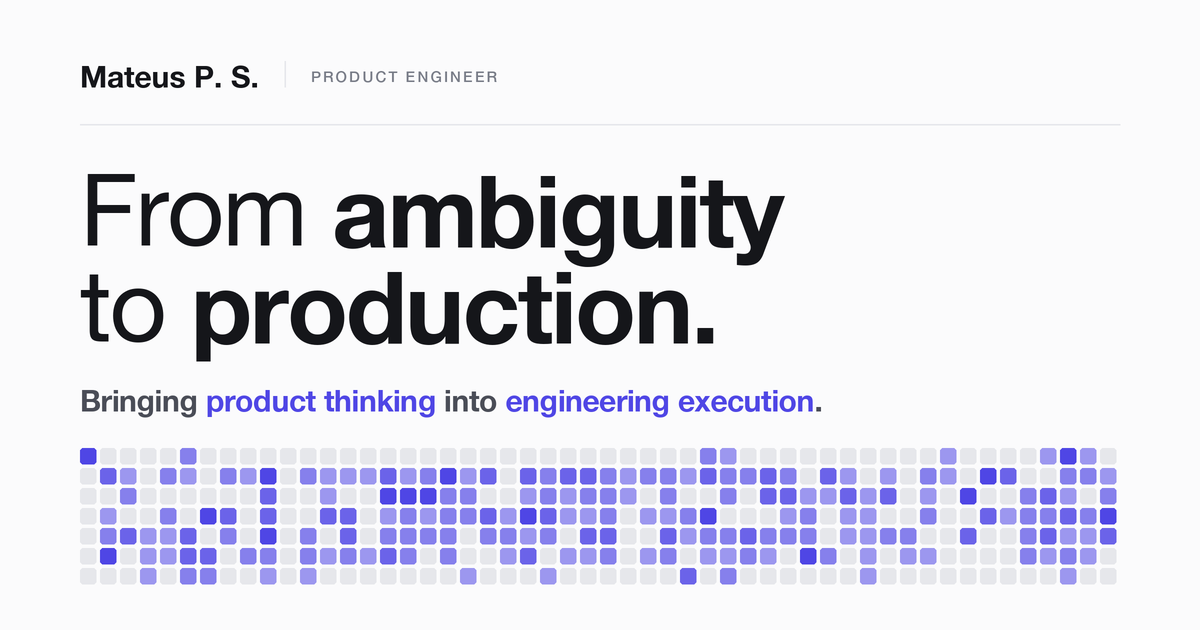
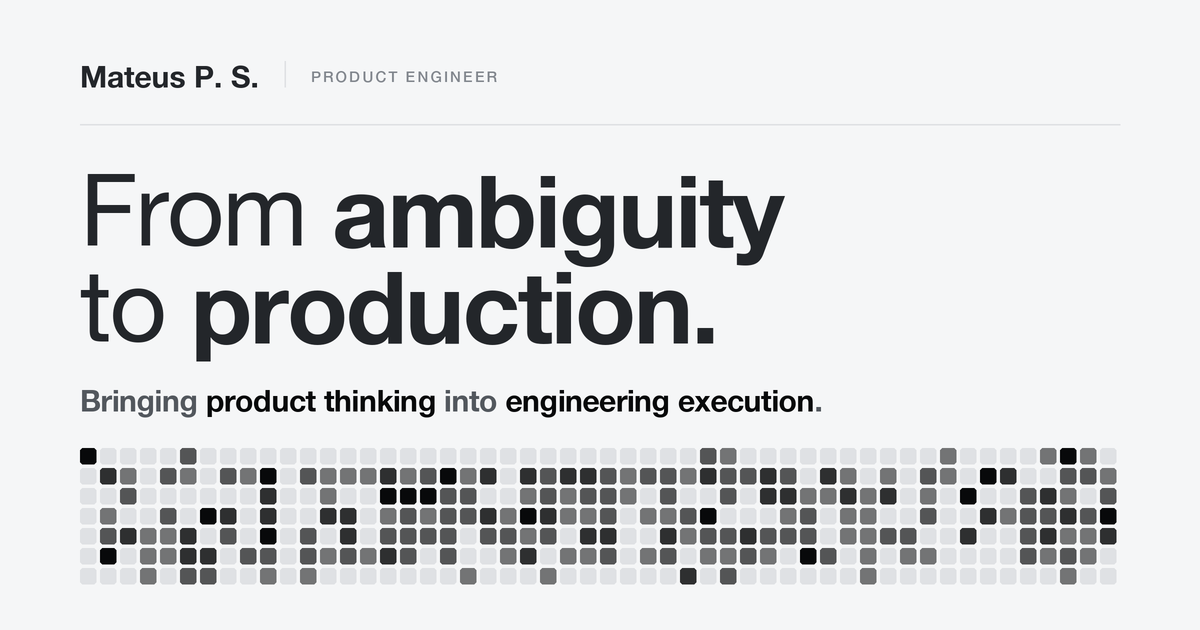
feat(theme): monochrome metal — platinum, graphite, chrome, zero hue
Kills the indigo everywhere: tokens, the AI-leverage ray fan, the OG card,
the icon set, and the browser theme-color. Nothing in the source matches a
purple hex any more.

The hard part is that a hueless accent has no way to step forward, and a
flat gray <em> is exactly what the colored one replaced. So emphasis is
carried by two things instead of a hue:

  value  — light: body graphite #23262a, accent obsidian #08090a (14:1 vs
           18.4:1 on the paper). Dark inverts it: body #e8eaed, accent
           specular #f7f9fa. Emphasis is always the extreme value, never a
           lighter gray.
  material — a new --metal gradient fills the four display emphases via
           background-clip: text. Angled, not vertical: background-clip
           paints the whole line box, so a vertical ramp hides its light
           stops in the ascender space and the x-height reads flat black.

The ray fan carried a full rainbow of literal hexes. Each ray now sits at
its own point on a color-mix ramp between --ink-4 and --accent, so the
scatter still reads as many unequal inputs and both themes stay legible —
a fixed gray would have vanished on one of them.

--glow replaces the accent-tinted drop-shadows: on paper a near-black halo
is a smudge, so light casts a shadow and dark glints.

Icons are recolored, not redrawn: scripts/recolor-icons.py projects every
pixel onto the background→mark axis and re-plots it on the new one, so the
letterform and its antialiasing survive exactly.

Changed region(s): [[0.0617, 0.6937, 0.9558, 0.9349], [0.4008, 0.6032, 0.6783, 0.6635], [0.1542, 0.6032, 0.37, 0.6635]]

diff --git a/styles/base/globals.scss b/styles/base/globals.scss
@@ -1,54 +1,72 @@
 /* ============================================================
    Mateus P. S. — Full-Stack / Product Software Engineer
    System: Helvetica only, everywhere (no display/mono web fonts)
-   Aesthetic: editorial tech · neutral paper · indigo accent · generative graphics
+   Aesthetic: editorial tech · monochrome metal · titanium / platinum / chrome
+   No hue anywhere: emphasis is carried by value and material, not color.
    ============================================================ */
 
 /* ---------------- THEME TOKENS ---------------- */
 :root,
 [data-theme="light"] {
-  --bg:        #fbfbfc;
+  /* PLATINUM — brushed paper, graphite type, obsidian emphasis */
+  --bg:        #f5f6f7;
   --panel-1:   #ffffff;
-  --panel-2:   #f4f5f7;
-  --ink:       #15161a;
-  --ink-2:     #4a4d57;
-  --ink-3:     #797d88;
-  --ink-4:     #aeb1ba;
-  --rule:      #e6e7eb;
-  --rule-soft: #eff0f3;
-  --accent:    #4f46e5;
-  --accent-2:  #4338ca;
+  --panel-2:   #eaebed;
+  --ink:       #23262a;
+  --ink-2:     #52575d;
+  --ink-3:     #82878e;
+  --ink-4:     #b0b5bb;
+  --rule:      #dfe1e4;
+  --rule-soft: #ebedee;
+  /* the accent is a VALUE, not a hue: darker than the body text, so emphasis
+     still steps forward instead of falling back into gray */
+  --accent:    #08090a;
+  --accent-2:  #2c3035;
   --accent-ink:#ffffff;
-  --accent-dim:#ecebfb;
-  --ascii:     #15161a;
+  --accent-dim:#e4e6e9;
+  --ascii:     #23262a;
+  /* brushed metal for display emphasis. Diagonal, not vertical: background-clip
+     paints across the whole line box, so a vertical ramp puts its light stops
+     in the ascender and descender space and the x-height reads as flat black.
+     Angled, the sheen crosses the word and every letter catches a different
+     part of it. The lit stops stay dark enough to hold contrast on paper. */
+  --metal: linear-gradient(160deg, #0b0d0f 0%, #4f555d 36%, #0b0d0f 58%, #3a3f45 100%);
+  /* light paper: metal casts a shadow rather than glowing */
+  --glow: rgba(10,12,14,0.2);
   --grain-blend: multiply;
   --grain-opacity: 0.035;
   --panel-sheen: linear-gradient(180deg, rgba(255,255,255,0.6), rgba(255,255,255,0) 42%);
-  --shadow: 0 1px 2px rgba(20,20,30,0.04), 0 30px 64px -38px rgba(20,20,30,0.2);
-  --selection: rgba(79,70,229,0.16);
+  --shadow: 0 1px 2px rgba(10,12,14,0.05), 0 30px 64px -38px rgba(10,12,14,0.22);
+  --selection: rgba(35,38,42,0.15);
   color-scheme: light;
 }
 
 [data-theme="dark"] {
-  --bg:        #0a0a0f;
-  --panel-1:   #121319;
-  --panel-2:   #181a22;
-  --ink:       #ecedf2;
-  --ink-2:     #aeb0bc;
-  --ink-3:     #797c89;
-  --ink-4:     #4f5260;
-  --rule:      #24262f;
-  --rule-soft: #181a21;
-  --accent:    #8b82f7;
-  --accent-2:  #a39cf9;
-  --accent-ink:#0a0a0f;
-  --accent-dim:#1c1b33;
-  --ascii:     #ecedf2;
+  /* MACHINED GRAPHITE — cold body, specular emphasis */
+  --bg:        #0b0c0e;
+  --panel-1:   #141619;
+  --panel-2:   #1c1f23;
+  --ink:       #e8eaed;
+  --ink-2:     #a6abb2;
+  --ink-3:     #737a82;
+  --ink-4:     #474d55;
+  --rule:      #23262b;
+  --rule-soft: #16181b;
+  /* inverted, same logic: emphasis is the brightest value on the page */
+  --accent:    #f7f9fa;
+  --accent-2:  #cfd5db;
+  --accent-ink:#0b0c0e;
+  --accent-dim:#21252a;
+  --ascii:     #e8eaed;
+  /* chrome: specular top, shadowed band, lit again at the base */
+  --metal: linear-gradient(180deg, #ffffff 0%, #dfe4e9 40%, #9aa1a9 56%, #eceff2 100%);
+  /* dark: metal glints */
+  --glow: rgba(247,249,250,0.4);
   --grain-blend: overlay;
   --grain-opacity: 0.05;
-  --panel-sheen: linear-gradient(180deg, rgba(255,255,255,0.03), rgba(255,255,255,0) 42%);
-  --shadow: 0 1px 2px rgba(0,0,0,0.4), 0 30px 64px -34px rgba(0,0,0,0.7);
-  --selection: rgba(139,130,247,0.3);
+  --panel-sheen: linear-gradient(180deg, rgba(255,255,255,0.05), rgba(255,255,255,0) 42%);
+  --shadow: 0 1px 2px rgba(0,0,0,0.45), 0 30px 64px -34px rgba(0,0,0,0.72);
+  --selection: rgba(232,234,237,0.22);
   color-scheme: dark;
 }
 
@@ -71,6 +89,30 @@
 [data-theme="dark"] {
   --shadow-card: 0 1px 2px rgba(0,0,0,0.5), 0 18px 40px -22px rgba(0,0,0,0.7);
   --shadow-lift: 0 1px 2px rgba(0,0,0,0.55), 0 30px 60px -26px rgba(0,0,0,0.8);
+}
+
+/* ---------------- METAL TYPE ----------------
+   The one place the palette behaves like a material instead of a color: the
+   display emphases get the brushed gradient, so emphasis reads as sharper
+   than the body text. Without this a hueless accent flattens into gray —
+   exactly the problem the colored <em> was introduced to solve. Solid
+   --accent is the fallback where background-clip: text is unsupported. */
+.sec-head h2 em,
+.contact-statement em,
+.hero-copy .hl-w,
+.po-foot em {
+  color: var(--accent);
+}
+@supports ((-webkit-background-clip: text) or (background-clip: text)) {
+  .sec-head h2 em,
+  .contact-statement em,
+  .hero-copy .hl-w,
+  .po-foot em {
+    background-image: var(--metal);
+    -webkit-background-clip: text;
+    background-clip: text;
+    color: transparent;
+  }
 }
 
 /* ---------------- BASE RESET ---------------- */
@@ -312,7 +354,7 @@ section {
   color: var(--ink);
   text-wrap: balance;
 }
-.sec-head h2 em { color: var(--accent); font-style: normal; }
+.sec-head h2 em { font-style: normal; }
 .sec-head .sub {
   font-size: clamp(18px, 1.5vw, 21px);
   color: var(--ink-2);
@@ -644,10 +686,9 @@ html .topbar-inner { transition: height 0.42s var(--ease), opacity 0.3s var(--ea
   color: var(--ink-2);
   margin: 0 0 36px;
 }
-.hero-copy .hl-w { 
-  font-weight: 700; 
-  white-space: nowrap; 
-  color: var(--accent); 
+.hero-copy .hl-w {
+  font-weight: 700;
+  white-space: nowrap;
 }
 
 .br-mobile { display: none; }
@@ -896,7 +937,7 @@ html .topbar-inner { transition: height 0.42s var(--ease), opacity 0.3s var(--ea
   stroke: var(--accent);
   stroke-width: 1.5;
   stroke-opacity: 0.9;
-  filter: drop-shadow(0 0 9px color-mix(in srgb, var(--accent) 45%, transparent));
+  filter: drop-shadow(0 0 9px var(--glow));
 }
 
 /* labels — font-size is set per-ring inline so it grows toward the outcome */
@@ -913,7 +954,7 @@ html .topbar-inner { transition: height 0.42s var(--ease), opacity 0.3s var(--ea
 }
 .po-lbl.acc .po-nm {
   fill: var(--accent);
-  filter: drop-shadow(0 0 12px color-mix(in srgb, var(--accent) 45%, transparent));
+  filter: drop-shadow(0 0 12px var(--glow));
 }
 
 .po-foot {
@@ -923,7 +964,7 @@ html .topbar-inner { transition: height 0.42s var(--ease), opacity 0.3s var(--ea
   font-size: clamp(14px, 1.4vw, 15.5px);
   color: var(--ink-2);
 }
-.po-foot em { font-style: normal; color: var(--accent); }
+.po-foot em { font-style: normal; }
 
 /* ── reveal: rings trace in from the core, labels rise ── */
 .po-ring { stroke-dashoffset: 1; stroke-dasharray: 1; }
@@ -1391,7 +1432,7 @@ a.ac-read:hover svg { transform: translate(2px, -2px); }
   margin: 0 0 24px;
   text-wrap: balance;
 }
-.contact-statement em { color: var(--accent); font-style: normal; }
+.contact-statement em { font-style: normal; }
 .contact-lead {
   font-size: clamp(15px, 2.2vw, 18px);
   line-height: 1.6;

diff --git a/components/sections/AILeverage/AILeverage.tsx b/components/sections/AILeverage/AILeverage.tsx
@@ -5,8 +5,11 @@ import type { CSSProperties } from 'react';
 import { FadeIn } from '@/components/ui/FadeIn';
 
 /* ── refraction motif geometry ──────────────────────────────────────────
-   scattered possibilities (multicolor rays) converge at the prism's left
-   vertex; judgment focuses them into one accent beam → directed impact. */
+   scattered possibilities converge at the prism's left vertex; judgment
+   focuses them into one accent beam → directed impact. The scatter is carried
+   by value, not hue: each ray sits at its own point on the metal ramp, from
+   dim titanium to full specular, so the palette stays monochrome and both
+   themes stay legible (a fixed hex would vanish on one of them). */
 const CX = 300;
 const CY = 250;
 const PRISM = {
@@ -18,25 +21,30 @@ const PRISM = {
 };
 const IMPACT_X = 720;
 
-const RAY_DEFS: { a: number; l: number; c: string }[] = [
-  { a: -38, l: 196, c: '#818cf8' },
-  { a: -31, l: 232, c: '#6366f1' },
-  { a: -24, l: 250, c: '#4338ca' },
-  { a: -17, l: 212, c: '#818cf8' },
-  { a: -9, l: 244, c: '#a855f7' },
-  { a: -2, l: 224, c: '#c084fc' },
-  { a: 6, l: 250, c: '#ec4899' },
-  { a: 13, l: 214, c: '#f472b6' },
-  { a: 20, l: 242, c: '#f59e0b' },
-  { a: 28, l: 206, c: '#fbbf24' },
-  { a: 35, l: 232, c: '#c7cad6' },
-  { a: 41, l: 190, c: '#818cf8' },
+/* t = position on the ramp between --ink-4 (dim) and --accent (specular) */
+const RAY_DEFS: { a: number; l: number; t: number }[] = [
+  { a: -38, l: 196, t: 0.55 },
+  { a: -31, l: 232, t: 0.8 },
+  { a: -24, l: 250, t: 1 },
+  { a: -17, l: 212, t: 0.5 },
+  { a: -9, l: 244, t: 0.72 },
+  { a: -2, l: 224, t: 0.34 },
+  { a: 6, l: 250, t: 0.92 },
+  { a: 13, l: 214, t: 0.45 },
+  { a: 20, l: 242, t: 0.66 },
+  { a: 28, l: 206, t: 0.28 },
+  { a: 35, l: 232, t: 0.6 },
+  { a: 41, l: 190, t: 0.86 },
 ];
 const RAY_SCALE = 1.28; // longer threads, reaching further left
-const RAYS = RAY_DEFS.map(({ a, l, c }) => {
+const RAYS = RAY_DEFS.map(({ a, l, t }) => {
   const r = (a * Math.PI) / 180;
   const L = l * RAY_SCALE;
-  return { x: +(CX - L * Math.cos(r)).toFixed(1), y: +(CY + L * Math.sin(r)).toFixed(1), c };
+  return {
+    x: +(CX - L * Math.cos(r)).toFixed(1),
+    y: +(CY + L * Math.sin(r)).toFixed(1),
+    c: `color-mix(in srgb, var(--accent) ${Math.round(t * 100)}%, var(--ink-4))`,
+  };
 });
 
 const STAGES: { x: number; k: string; s: [string, string] }[] = [

diff --git a/app/layout.tsx b/app/layout.tsx
@@ -6,8 +6,8 @@ export const viewport: Viewport = {
   initialScale: 1,
   viewportFit: 'cover',
   themeColor: [
-    { media: '(prefers-color-scheme: light)', color: '#fbfbfc' },
-    { media: '(prefers-color-scheme: dark)', color: '#0a0a0f' },
+    { media: '(prefers-color-scheme: light)', color: '#f5f6f7' },
+    { media: '(prefers-color-scheme: dark)', color: '#0b0c0e' },
   ],
 };
 
@@ -63,7 +63,7 @@ export default function RootLayout({ children }: { children: React.ReactNode }) 
       <head>
         <script
           dangerouslySetInnerHTML={{
-            __html: `(function(){try{var s=localStorage.getItem('theme');var t=s||(window.matchMedia('(prefers-color-scheme: dark)').matches?'dark':'light');document.documentElement.setAttribute('data-theme',t);var c=t==='dark'?'#0a0a0f':'#fbfbfc';var m=document.querySelectorAll('meta[name="theme-color"]');for(var i=0;i<m.length;i++){m[i].setAttribute('content',c);}}catch(e){}})();`,
+            __html: `(function(){try{var s=localStorage.getItem('theme');var t=s||(window.matchMedia('(prefers-color-scheme: dark)').matches?'dark':'light');document.documentElement.setAttribute('data-theme',t);var c=t==='dark'?'#0b0c0e':'#f5f6f7';var m=document.querySelectorAll('meta[name="theme-color"]');for(var i=0;i<m.length;i++){m[i].setAttribute('content',c);}}catch(e){}})();`,
           }}
         />
         <script

diff --git a/components/layout/Header/Header.tsx b/components/layout/Header/Header.tsx
@@ -7,7 +7,7 @@ import { motion, useScroll, useSpring } from 'framer-motion';
 // site's manual toggle — override the rendered meta tags so the iOS status
 // bar / Dynamic Island area matches whichever theme is actually active.
 function syncThemeColorMeta(theme: 'light' | 'dark') {
-  const color = theme === 'dark' ? '#0a0a0f' : '#fbfbfc';
+  const color = theme === 'dark' ? '#0b0c0e' : '#f5f6f7';
   document.querySelectorAll('meta[name="theme-color"]').forEach((m) => m.setAttribute('content', color));
 }
 

diff --git a/scripts/recolor-icons.py b/scripts/recolor-icons.py
@@ -1,0 +1,80 @@
+"""Recolor the "M" mark from indigo to the monochrome metal palette.
+
+    python3 scripts/recolor-icons.py
+
+The icons are a flat two-color artwork (mark on a solid square) plus
+antialiasing. Rather than redrawing the mark, every pixel is projected onto the
+background→mark axis and re-plotted on the new axis, so the letterform and its
+edge softness survive byte for byte — only the two endpoints move.
+
+Light-UI icons get an obsidian mark on white; the dark-UI variants get a
+platinum mark, and their near-black square loses its faint blue cast.
+"""
+from pathlib import Path
+
+from PIL import Image
+
+PUBLIC = Path(__file__).resolve().parent.parent / "public"
+
+LIGHT_BG, LIGHT_INK = (255, 255, 255), (13, 15, 17)   # paper / obsidian
+DARK_BG, DARK_INK = (11, 12, 14), (242, 244, 246)     # graphite / platinum
+
+LIGHT = ["icon-512.png", "icon-192.png", "apple-touch-icon.png",
+         "favicon-32x32.png", "favicon-16x16.png", "icon_light.png"]
+DARK = ["icon-dark-32x32.png", "icon-dark-16x16.png", "icon_dark.png"]
+ICO = "favicon.ico"
+
+
+def endpoints(img):
+    """Background = a corner pixel; mark = the most saturated color present.
+
+    Chroma, not frequency: at 16x16 every pixel of the mark is its own
+    antialiased blend, so no single value is frequent enough to spot by count,
+    and a frequency floor picks the paper instead. The backgrounds here are
+    neutral and the mark is the only saturated thing in the file, so the
+    highest-chroma pixel is the mark at full strength.
+    """
+    bg = img.load()[0, 0][:3]
+    colors = [c for _, c in img.convert("RGB").getcolors(maxcolors=1 << 24) or []]
+    chroma = lambda c: max(c) - min(c)
+    ink = max(colors, key=lambda c: (chroma(c), sum((a - b) ** 2 for a, b in zip(c, bg))))
+    if chroma(ink) < 30:
+        raise SystemExit(f"no saturated mark found in {img.filename} — nothing to recolor")
+    return bg, ink
+
+
+def recolor(path, new_bg, new_ink, out=None):
+    img = Image.open(path).convert("RGBA")
+    bg, ink = endpoints(img)
+    axis = [i - b for i, b in zip(ink, bg)]
+    denom = sum(a * a for a in axis) or 1
+
+    src = img.load()
+    dst = Image.new("RGBA", img.size)
+    out_px = dst.load()
+    for y in range(img.height):
+        for x in range(img.width):
+            r, g, b, a = src[x, y]
+            t = sum(ax * (p - c) for ax, p, c in zip(axis, (r, g, b), bg)) / denom
+            t = 0.0 if t < 0 else (1.0 if t > 1 else t)
+            out_px[x, y] = (
+                round(new_bg[0] + t * (new_ink[0] - new_bg[0])),
+                round(new_bg[1] + t * (new_ink[1] - new_bg[1])),
+                round(new_bg[2] + t * (new_ink[2] - new_bg[2])),
+                a,
+            )
+    target = Path(out or path)
+    dst.convert(Image.open(path).mode).save(target, optimize=True)
+    print(f"{target.name:24} {bg} -> {new_bg}   {ink} -> {new_ink}")
+    return dst
+
+
+for name in LIGHT:
+    recolor(PUBLIC / name, LIGHT_BG, LIGHT_INK)
+for name in DARK:
+    recolor(PUBLIC / name, DARK_BG, DARK_INK)
+
+# the .ico keeps every size a browser might ask for
+ico = recolor(PUBLIC / ICO, LIGHT_BG, LIGHT_INK, out=PUBLIC / ICO)
+ico.convert("RGBA").save(PUBLIC / ICO, sizes=[(16, 16), (32, 32), (48, 48)])
+print("favicon.ico resaved at 16/32/48")

diff --git a/scripts/make-og-image.py b/scripts/make-og-image.py
@@ -22,12 +22,12 @@ FONT = "/System/Library/Fonts/HelveticaNeue.ttc"
 REG, BOLD, MED = 0, 1, 10
 
 # --- tokens, lifted from styles/base/globals.scss (light theme) -------------
-BG = (251, 251, 252)        # --bg      #fbfbfc
-INK = (21, 22, 26)          # --ink     #15161a
-INK_2 = (74, 77, 87)        # --ink-2   #4a4d57
-INK_3 = (121, 125, 136)     # --ink-3   #797d88
-RULE = (230, 231, 235)      # --rule    #e6e7eb
-ACCENT = (79, 70, 229)      # --accent  #4f46e5
+BG = (245, 246, 247)        # --bg      #f5f6f7  platinum paper
+INK = (35, 38, 42)          # --ink     #23262a  graphite
+INK_2 = (82, 87, 93)        # --ink-2   #52575d
+INK_3 = (130, 135, 142)     # --ink-3   #82878e
+RULE = (223, 225, 228)      # --rule    #dfe1e4
+ACCENT = (8, 9, 10)         # --accent  #08090a  obsidian
 
 
 def over(fg, alpha, bg=BG):
